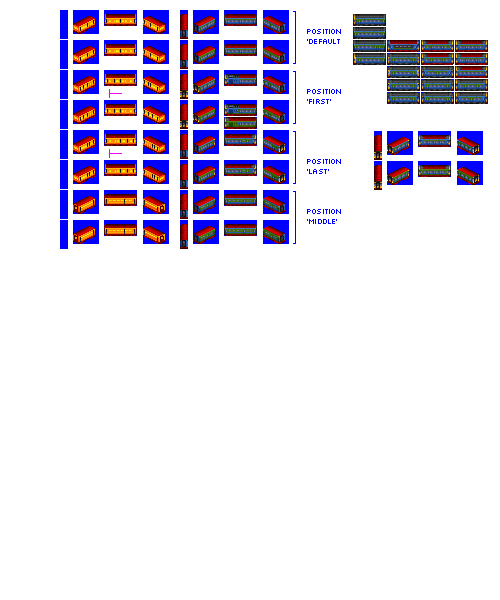
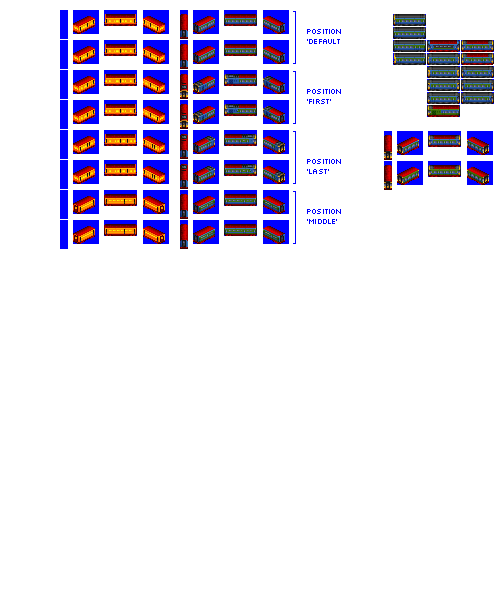
Change: sprites complete for Turbulent

diff --git a/src/vehicles/pony/turbulent.py b/src/vehicles/pony/turbulent.py
@@ -17,7 +17,7 @@ def main(**kwargs):
         gen=4,
         intro_year_offset=1,  # introduce later by design
         livery_group_name="CABBAGE_RAILCAR",  # override default liveries from gestalt
-        sprites_complete=False,
+        sprites_complete=True,
     )
 
     model_def.add_unit_def(
